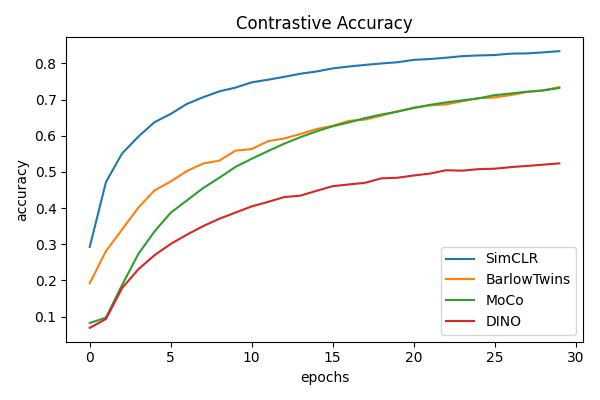
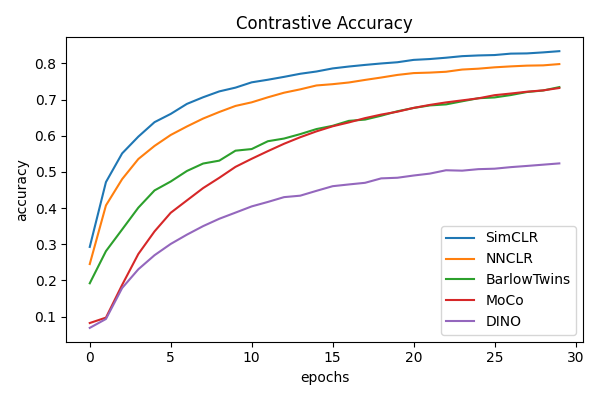
updated training curves and notebook

diff --git a/algorithms.py b/algorithms.py
@@ -84,17 +84,9 @@ class NNCLR(ContrastiveModel):
             self.feature_queue, tf.argmax(support_similarities, axis=1), axis=0
         )
 
-        # or soft nearest-neighbours
-        # nn_projections = tf.matmul(
-        #     keras.activations.softmax(support_similarities / self.temperature),
-        #     self.feature_queue,
-        # )
-
-        # stop-gradient
-        return tf.stop_gradient(nn_projections)
-
-        # or straight-through gradient estimation
-        # return projections + tf.stop_gradient(nn_projections - projections)
+        # straight-through gradient estimation
+        # paper used stop gradient, however it helps performance at this scale
+        return projections + tf.stop_gradient(nn_projections - projections)
 
     def contrastive_loss(self, projections_1, projections_2):
         # similar to the SimCLR loss, however we take the nearest neighbours of a set
@@ -118,24 +110,8 @@ class NNCLR(ContrastiveModel):
         batch_size = tf.shape(projections_1)[0]
         contrastive_labels = tf.range(batch_size)
         loss = keras.losses.sparse_categorical_crossentropy(
-            tf.concat(
-                [
-                    contrastive_labels,
-                    contrastive_labels,
-                    contrastive_labels,
-                    contrastive_labels,
-                ],
-                axis=0,
-            ),
-            tf.concat(
-                [
-                    similarities_1_2,
-                    similarities_2_1,
-                    tf.transpose(similarities_1_2),
-                    tf.transpose(similarities_2_1),
-                ],
-                axis=0,
-            ),
+            tf.concat([contrastive_labels, contrastive_labels], axis=0),
+            tf.concat([similarities_1_2, similarities_2_1], axis=0),
             from_logits=True,
         )
 
